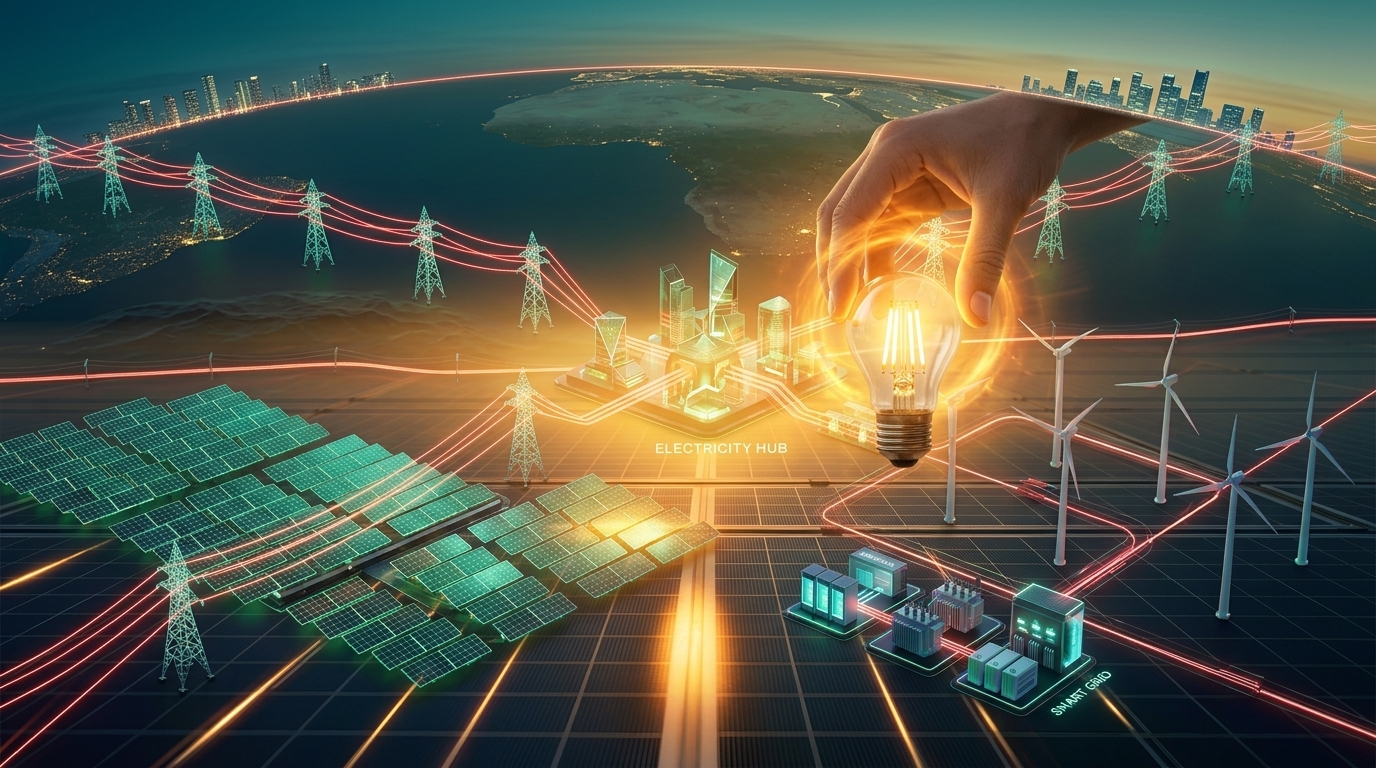
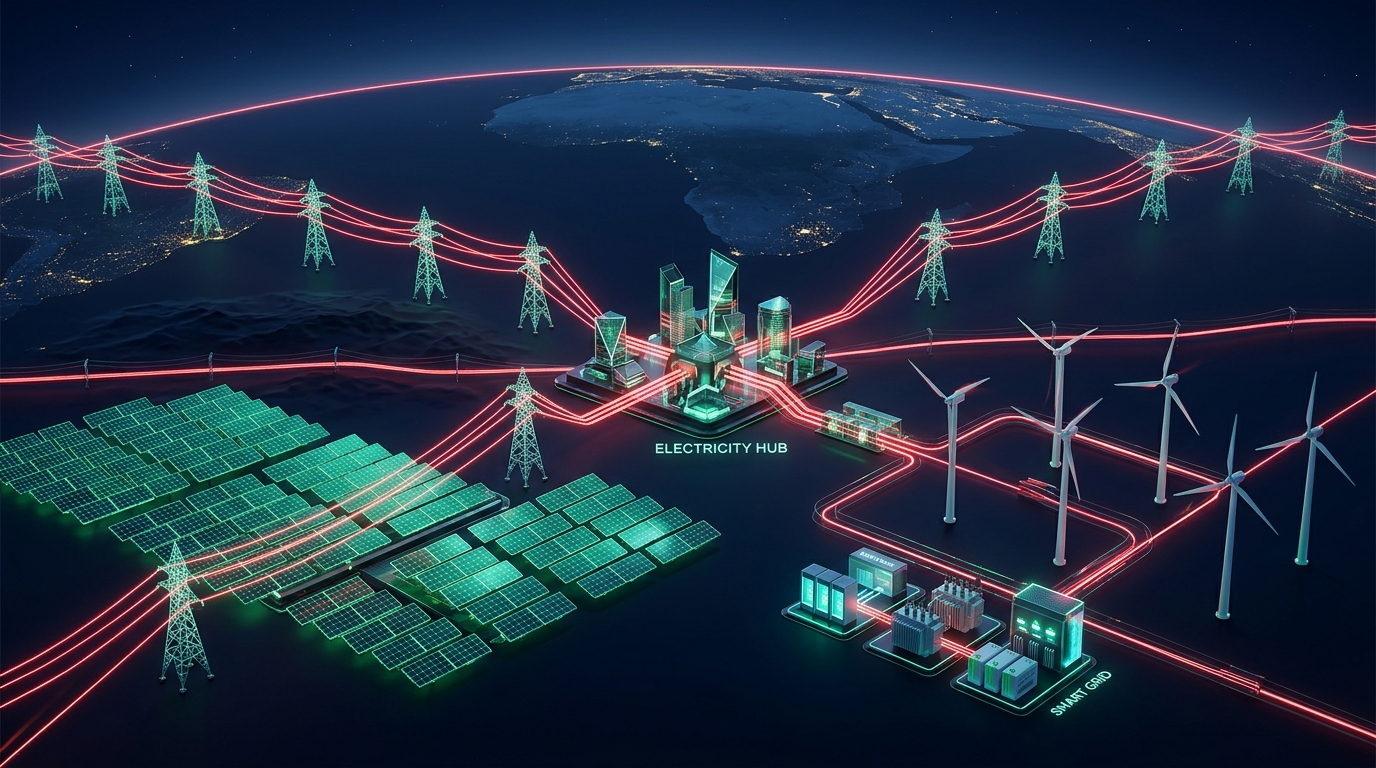
Feat: calendar-teh: Product Live

diff --git a/calendar-teh/public/index.html b/calendar-teh/public/index.html
@@ -112,7 +112,7 @@
         <!-- Bento Card 1: Nextier The Electricity Hub Visual Showcase -->
         <div class="bento-card bento-card-teh-showcase">
           <div class="teh-showcase-media">
-            <img src="images/teh-hero-energy-grid.jpg" alt="The Electricity Hub - Connecting the Globe & Clean Energy Transition" class="teh-showcase-img" id="tehHeroImage">
+            <img src="images/teh-hero-energy-grid.jpg" alt="The Electricity Hub - Continental Grid & Clean Energy Transition" class="teh-showcase-img" id="tehHeroImage">
             <div class="teh-showcase-overlay"></div>
 
             <!-- Floating Top Badges -->
@@ -129,7 +129,7 @@
             <div class="teh-media-bottom-content">
               <div class="teh-media-caption-group">
                 <span class="teh-media-kicker">POWER SECTOR INTELLIGENCE</span>
-                <h3 class="teh-media-headline">Connecting the Globe &amp; Clean Energy Transition</h3>
+                <h3 class="teh-media-headline">Continental Grid &amp; Clean Energy Transition</h3>
                 <p class="teh-media-sub">Collating and disseminating credible power industry data, statutory public holidays, and clean power milestones across Nigeria and Africa.</p>
               </div>
 
